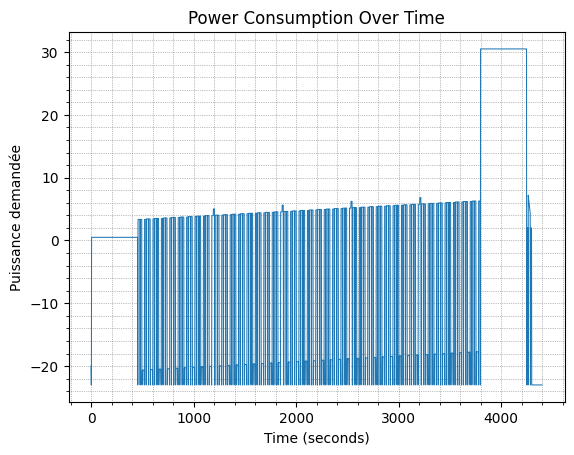
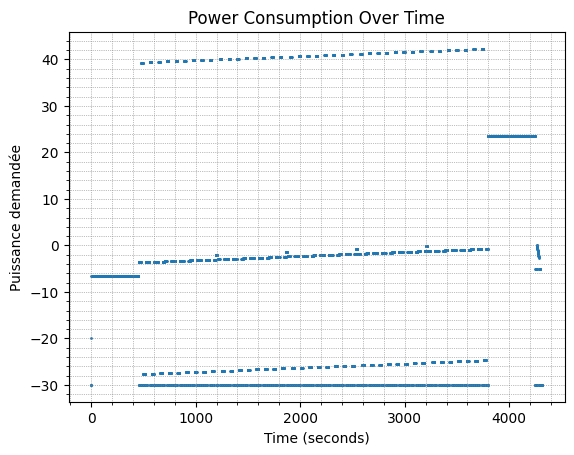
arduino_integration

Changed region(s): [[0.0592, 0.0615, 1.0, 0.9538]]

diff --git a/Bilan/Rover.py b/Bilan/Rover.py
@@ -1,21 +1,24 @@
 import numpy as np
 import matplotlib.pyplot as plt
 
-
+opérations = {}
+ope_t = {}
 
 class opération:
-    def __init__(self, time, puissance, cycle = True):
+    def __init__(self,name, time, puissance, cycle = True):
+        self.name = name
         self.time= time
         self.puissance = puissance
         self.cycle = cycle
+        self.compteur = 0
             
 class rover:
     def __init__(self):
-        self.drymass = 235
+        self.drymass = 207
         self.mass = self.drymass
         self.cruise_speed = 0.1
 
-        self.solar_power = 82
+        self.solar_power = 91.5
 
         self.gravity = 1.62
 
@@ -25,10 +28,10 @@ class rover:
 
         self.time = 0
 
-        self.battery_E = 25000
+        self.battery_E = 350000
         self.initial_E = self.battery_E
 
-        self.control_consumption = 59
+        self.control_consumption = 65
 
 
     def power_rouler(self, vitesse = 0.1):
@@ -50,33 +53,37 @@ class rover:
 
 Rover = rover()
 
-latence = opération(time = 3, puissance = 0,cycle = False)
+latence = opération(name = 'Latence (contrôle)', time = 3, puissance = 0,cycle = False)
 
-rouler_aller = opération(time= 450, puissance = 0, cycle = False)
+rouler_aller = opération(name = 'Rouler (aller)', time= 450, puissance = 0, cycle = False)
 
-moulin = opération(time= 20, puissance = 24)
+moulin = opération(name = 'Moulin', time= 15, puissance = 24)
 Rover.add_cycle_opération(moulin)
 
-lever_moulin = opération(time= 15, puissance = 24)
+lever_moulin = opération('Lever Moulin',time= 10, puissance = 67)
 Rover.add_cycle_opération(lever_moulin)
 
-attendre_déversement = opération(time=20, puissance  = 0)
+attendre_déversement = opération(name = 'Attente Déversement', time=40, puissance  = 0)
 Rover.add_cycle_opération(attendre_déversement)
 
-descendre_moulin = opération(time= 15, puissance = 24)
+descendre_moulin = opération(name = 'Lever Moulin', time= 10, puissance = lever_moulin.puissance)
 Rover.add_cycle_opération(descendre_moulin)
 
 
-compactage = opération(time=12, puissance = 25, cycle =  False)
+compactage = opération(name = 'Compactage', time=15, puissance = 30, cycle =  False)
 
-ouvrir_rampe = opération(time= 10, puissance = 25, cycle = False)
-déchargement = opération(time= 20, puissance = 25, cycle = False)
-fermeture_rampe = opération(time= 10, puissance = 25, cycle = False)
+débloquer_porte = opération(name = 'Loquet Porte Déchargement', time= 5, puissance = 8.8, cycle = False)
+ouvrir_rampe = opération('Mouvement Porte Déchargement', time= 10, puissance = 28, cycle = False)
+déchargement = opération('Déchargement', time= 20, puissance = 25, cycle = False)
+fermeture_rampe = opération('Mouvement Porte Déchargement', time= 10, puissance = 28, cycle = False)
+bloquer_porte = opération(name = 'Loquet Porte Déchargement', time= 5, puissance = 8.8, cycle = False)
 
-rouler_retour = opération(450, puissance = 0, cycle = False)
+rouler_retour = opération('Rouler (retour)', 450, puissance = 0, cycle = False)
 
 
 def effectuer_opération(operation,vitesse = 0.01):
+
+    
 
     operation_start_time = Rover.time
     if operation == déchargement:
@@ -104,20 +111,34 @@ def effectuer_opération(operation,vitesse = 0.01):
 
         mass.append(Rover.mass)
 
+        if operation not in opérations:
+            opérations[operation.name] = consumption
+            operation.compteur += 1
+        else:
+            opérations[operation.name] = (opérations[operation.name]*opération.compteur + consumption)/(operation.compteur+1)
+            operation.compteur += 1
+
+        if operation not in ope_t:
+            ope_t[operation.name] = 1
+            operation.compteur += 1
+        else:
+            ope_t[operation.name] += 1
+            operation.compteur += 1
+
 #t = 0
 dt = 1
 objectifs_de_cycles = Rover.n_cycle
 
-mass = [Rover.drymass]
-Battery_state = [Rover.battery_E]
-time  = [0]
-Consumption = [-20]
+mass = []
+Battery_state = []
+time  = []
+Consumption = []
 
 #first transport
 effectuer_opération(latence, vitesse = 0)
 effectuer_opération(rouler_aller)
 
-
+import random
 while Rover.n_cycle > 0:
     nombre_cycle_faits = objectifs_de_cycles - Rover.n_cycle
     #cycle du moulin
@@ -125,7 +146,7 @@ while Rover.n_cycle > 0:
         effectuer_opération(latence,vitesse = 0)
         effectuer_opération(operation)
 
-    Rover.mass += 7.5
+    Rover.mass = Rover.mass + 7.5 - 7.5*random.random()*0.3
 
     if (nombre_cycle_faits%8 == 0) and (nombre_cycle_faits != 0):
         effectuer_opération(compactage)
@@ -135,12 +156,26 @@ while Rover.n_cycle > 0:
 else:
     effectuer_opération(latence, vitesse = 0)
     effectuer_opération(rouler_retour)
+
+    
+    effectuer_opération(latence, vitesse=0)
+    effectuer_opération(débloquer_porte, vitesse = 0)
+
     effectuer_opération(latence, vitesse = 0)
     effectuer_opération(ouvrir_rampe, vitesse = 0)
+
+    '''Le compactage ici sert à pousser le regolithe'''
+    effectuer_opération(latence, vitesse = 0)
+    effectuer_opération(compactage)
+
     effectuer_opération(latence, vitesse = 0)
     effectuer_opération(déchargement, vitesse = 0.01)
+
+
     effectuer_opération(latence, vitesse = 0)
     effectuer_opération(fermeture_rampe,vitesse = 0)
+
+    effectuer_opération(bloquer_porte, vitesse = 0)
 
     battery_start = False
     while Rover.battery_E <= Rover.initial_E:
@@ -156,10 +191,14 @@ else:
 import os
 
 # Plot Power Consumption
-plt.plot(time, Consumption, linewidth=0.75)
-plt.title('Power Consumption Over Time')
-plt.xlabel('Time (seconds)')
-plt.ylabel('Puissance demandée')
+scatter =False
+if scatter:
+    plt.scatter(time, Consumption, s=1)
+else:
+    plt.plot(time, Consumption, linewidth = 0.75)
+plt.title('Puissance nette demandée')
+plt.xlabel('Temps (s)')
+plt.ylabel('Puissance demandée (w)')
 plt.minorticks_on()
 plt.grid(which='both', linestyle=':', linewidth='0.5', color='gray')
 plt.show()
@@ -184,4 +223,28 @@ plt.minorticks_on()
 plt.grid(which='both', linestyle=':', linewidth='0.5', color='gray')
 plt.show()
 plt.savefig('Masse')
-        
+
+
+val = [val  for val in opérations.values()]
+
+# Sort the keys and values based on the val values
+sorted_items = sorted(zip(opérations.keys(), val), key=lambda x: x[1])
+sorted_keys, sorted_values = zip(*sorted_items)
+
+
+
+val = [val  for val in opérations.values()]
+
+# Sort the keys and values based on the val values
+sorted_items = sorted(zip(opérations.keys(), val), key=lambda x: x[1])
+sorted_keys, sorted_values = zip(*sorted_items)
+
+plt.barh(y=list(sorted_keys), width=sorted_values, height=0.75)
+
+ # Increase title fontsize
+plt.xlabel('Puissance nette nécessaire (w)', fontsize=14)  # Increase xlabel fontsize
+plt.ylabel('Opérations', fontsize=14)  # Increase ylabel fontsize
+plt.minorticks_on()
+plt.tick_params(axis='both', which='major', labelsize=14)  
+plt.grid(which='both', linestyle=':', linewidth='0.5', color='gray')
+plt.show()

diff --git a/Bilan/Arduino/test_mpu copy.py b/Bilan/Arduino/test_mpu copy.py
@@ -1,0 +1,6 @@
+
+import sys
+sys.path.append('C://Users//Ordinateur//AppData//Local//Packages//PythonSoftwareFoundation.Python.3.11_qbz5n2kfra8p0//LocalCache//local-packages//Python311//site-packages')
+import time
+import pyfirmata2
+board = pyfirmata2.Arduino('COM3')

diff --git a/Bilan/Arduino/TEST_TO_DEL.py b/Bilan/Arduino/TEST_TO_DEL.py
@@ -1,0 +1,1 @@
+print('HELLO)
